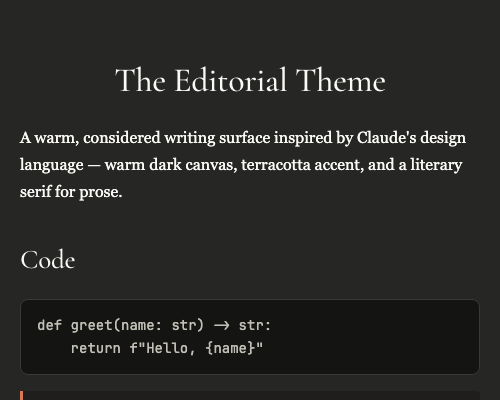
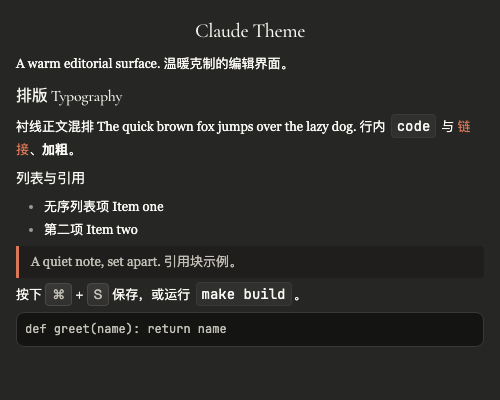
Add full style-showcase screenshots and richer thumbnails

diff --git a/README_zh_cn.md b/README_zh_cn.md
@@ -11,13 +11,13 @@
 
 ## 预览
 
-**Claude**（亮色）：
+**Claude** —— 完整样式展示（标题、列表、引用、代码、表格、中英文）：
 
-![Claude 主题预览](claude.png)
+![Claude 主题 —— 标题、列表、引用、代码、表格](claude-full.png)
 
-**Claude Dark**（暗色）：
+**Claude Dark**：
 
-![Claude Dark 主题预览](claude-dark.png)
+![Claude Dark 主题 —— 标题、列表、引用、代码、表格](claude-dark-full.png)
 
 ## 特性
 

diff --git a/README.md b/README.md
@@ -11,13 +11,13 @@ Two variants are included:
 
 ## Preview
 
-**Claude** (light):
+**Claude** — full style showcase (headings, lists, quote, code, table, CJK):
 
-![Claude theme preview](claude.png)
+![Claude theme — headings, lists, quote, code, table](claude-full.png)
 
 **Claude Dark**:
 
-![Claude Dark theme preview](claude-dark.png)
+![Claude Dark theme — headings, lists, quote, code, table](claude-dark-full.png)
 
 ## Features
 
